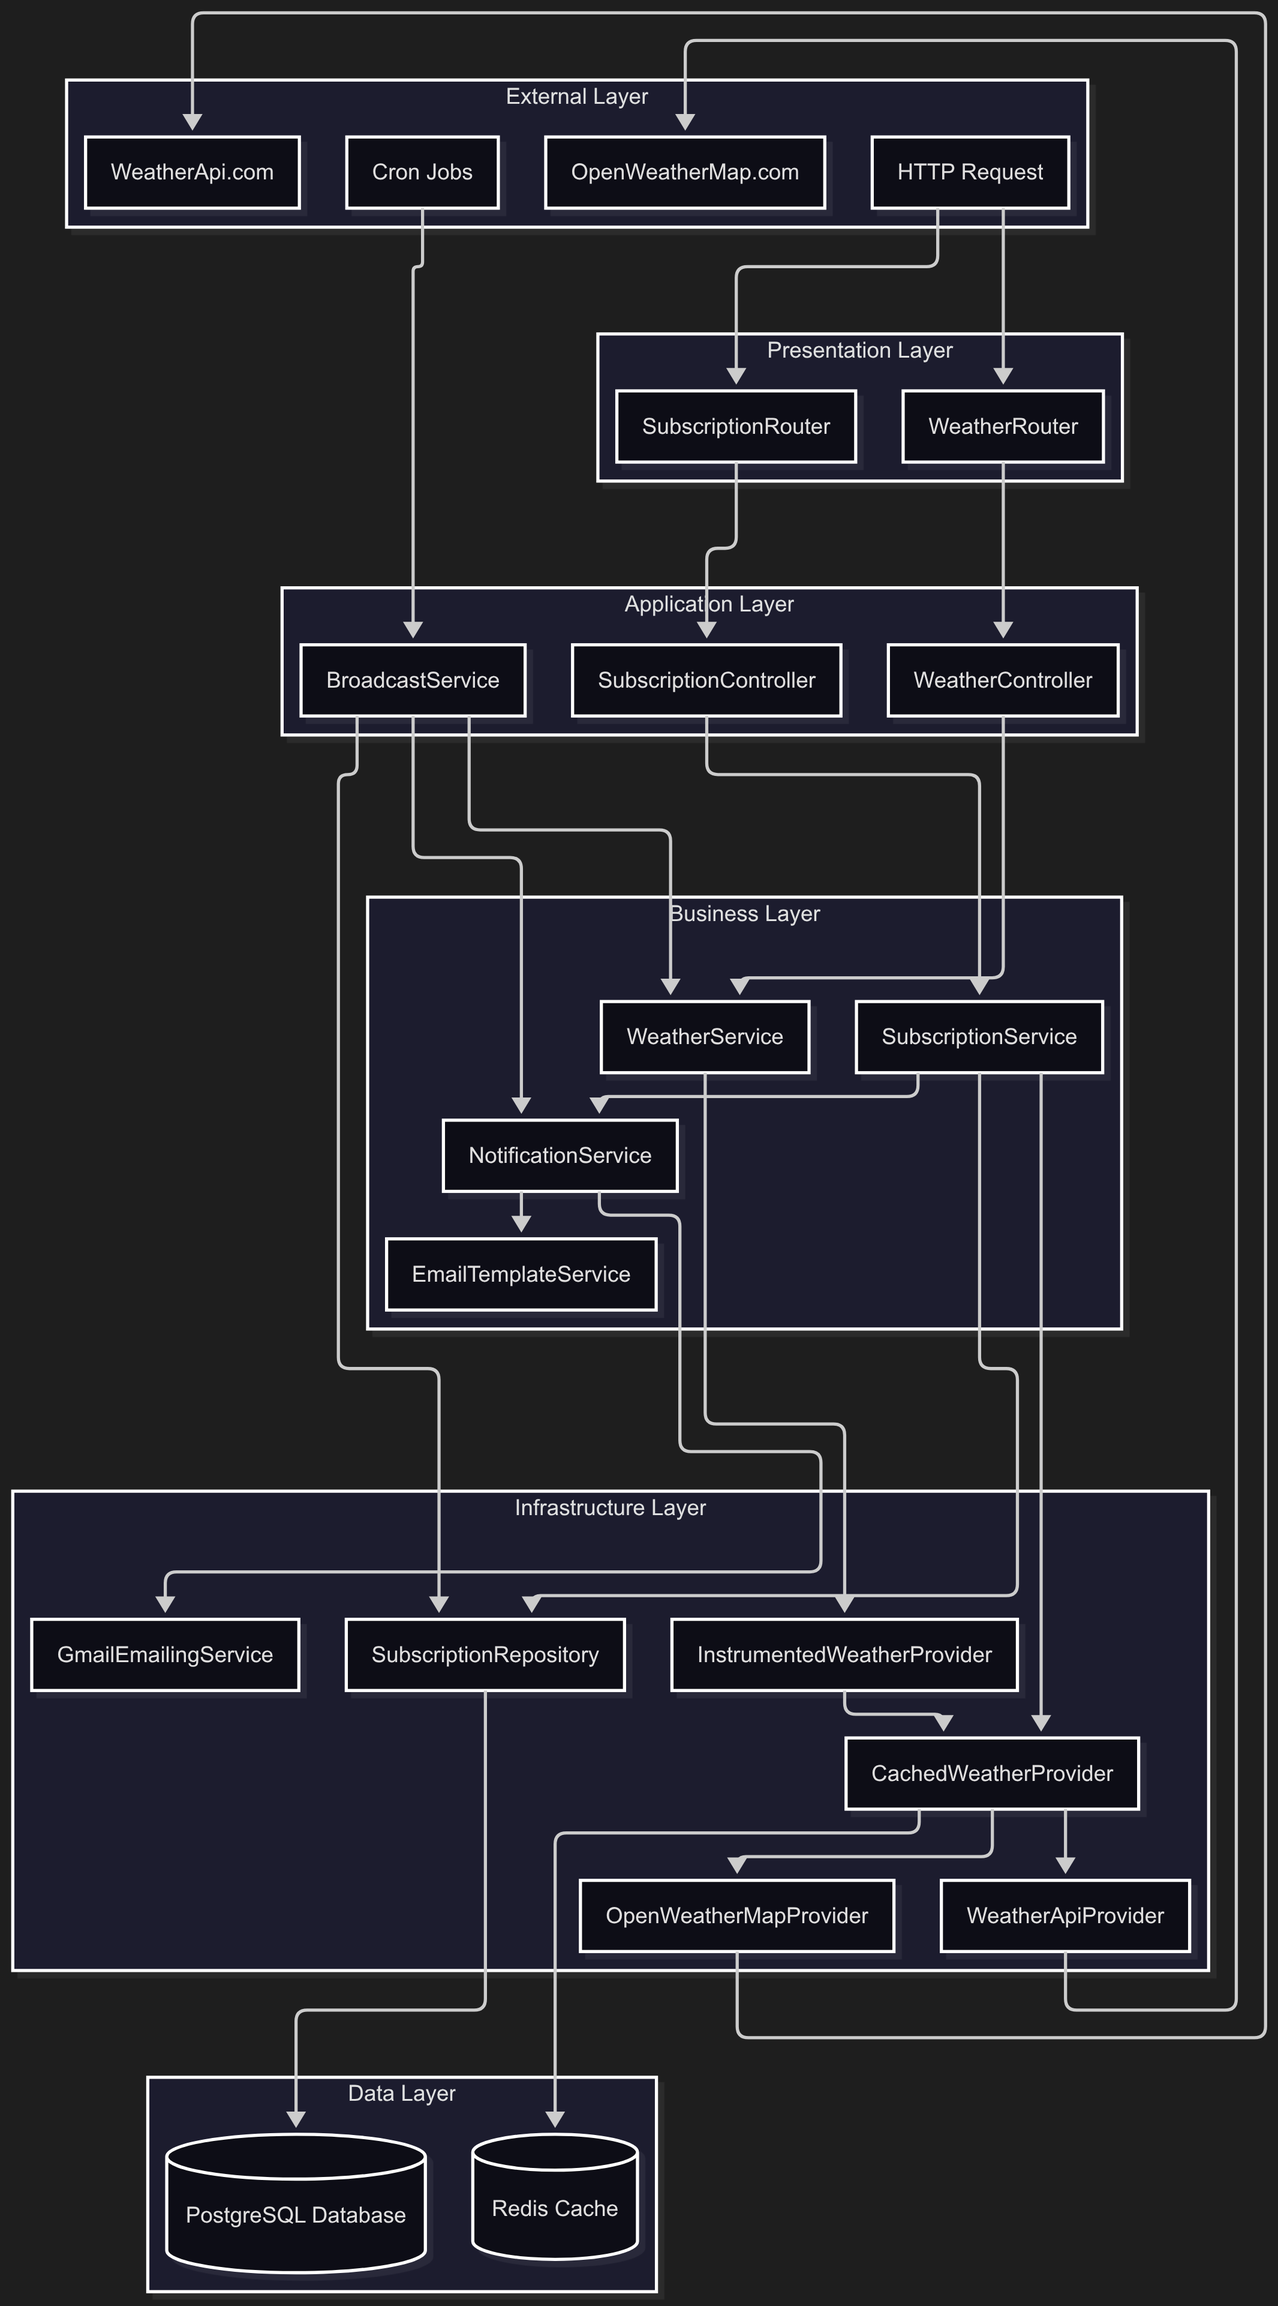
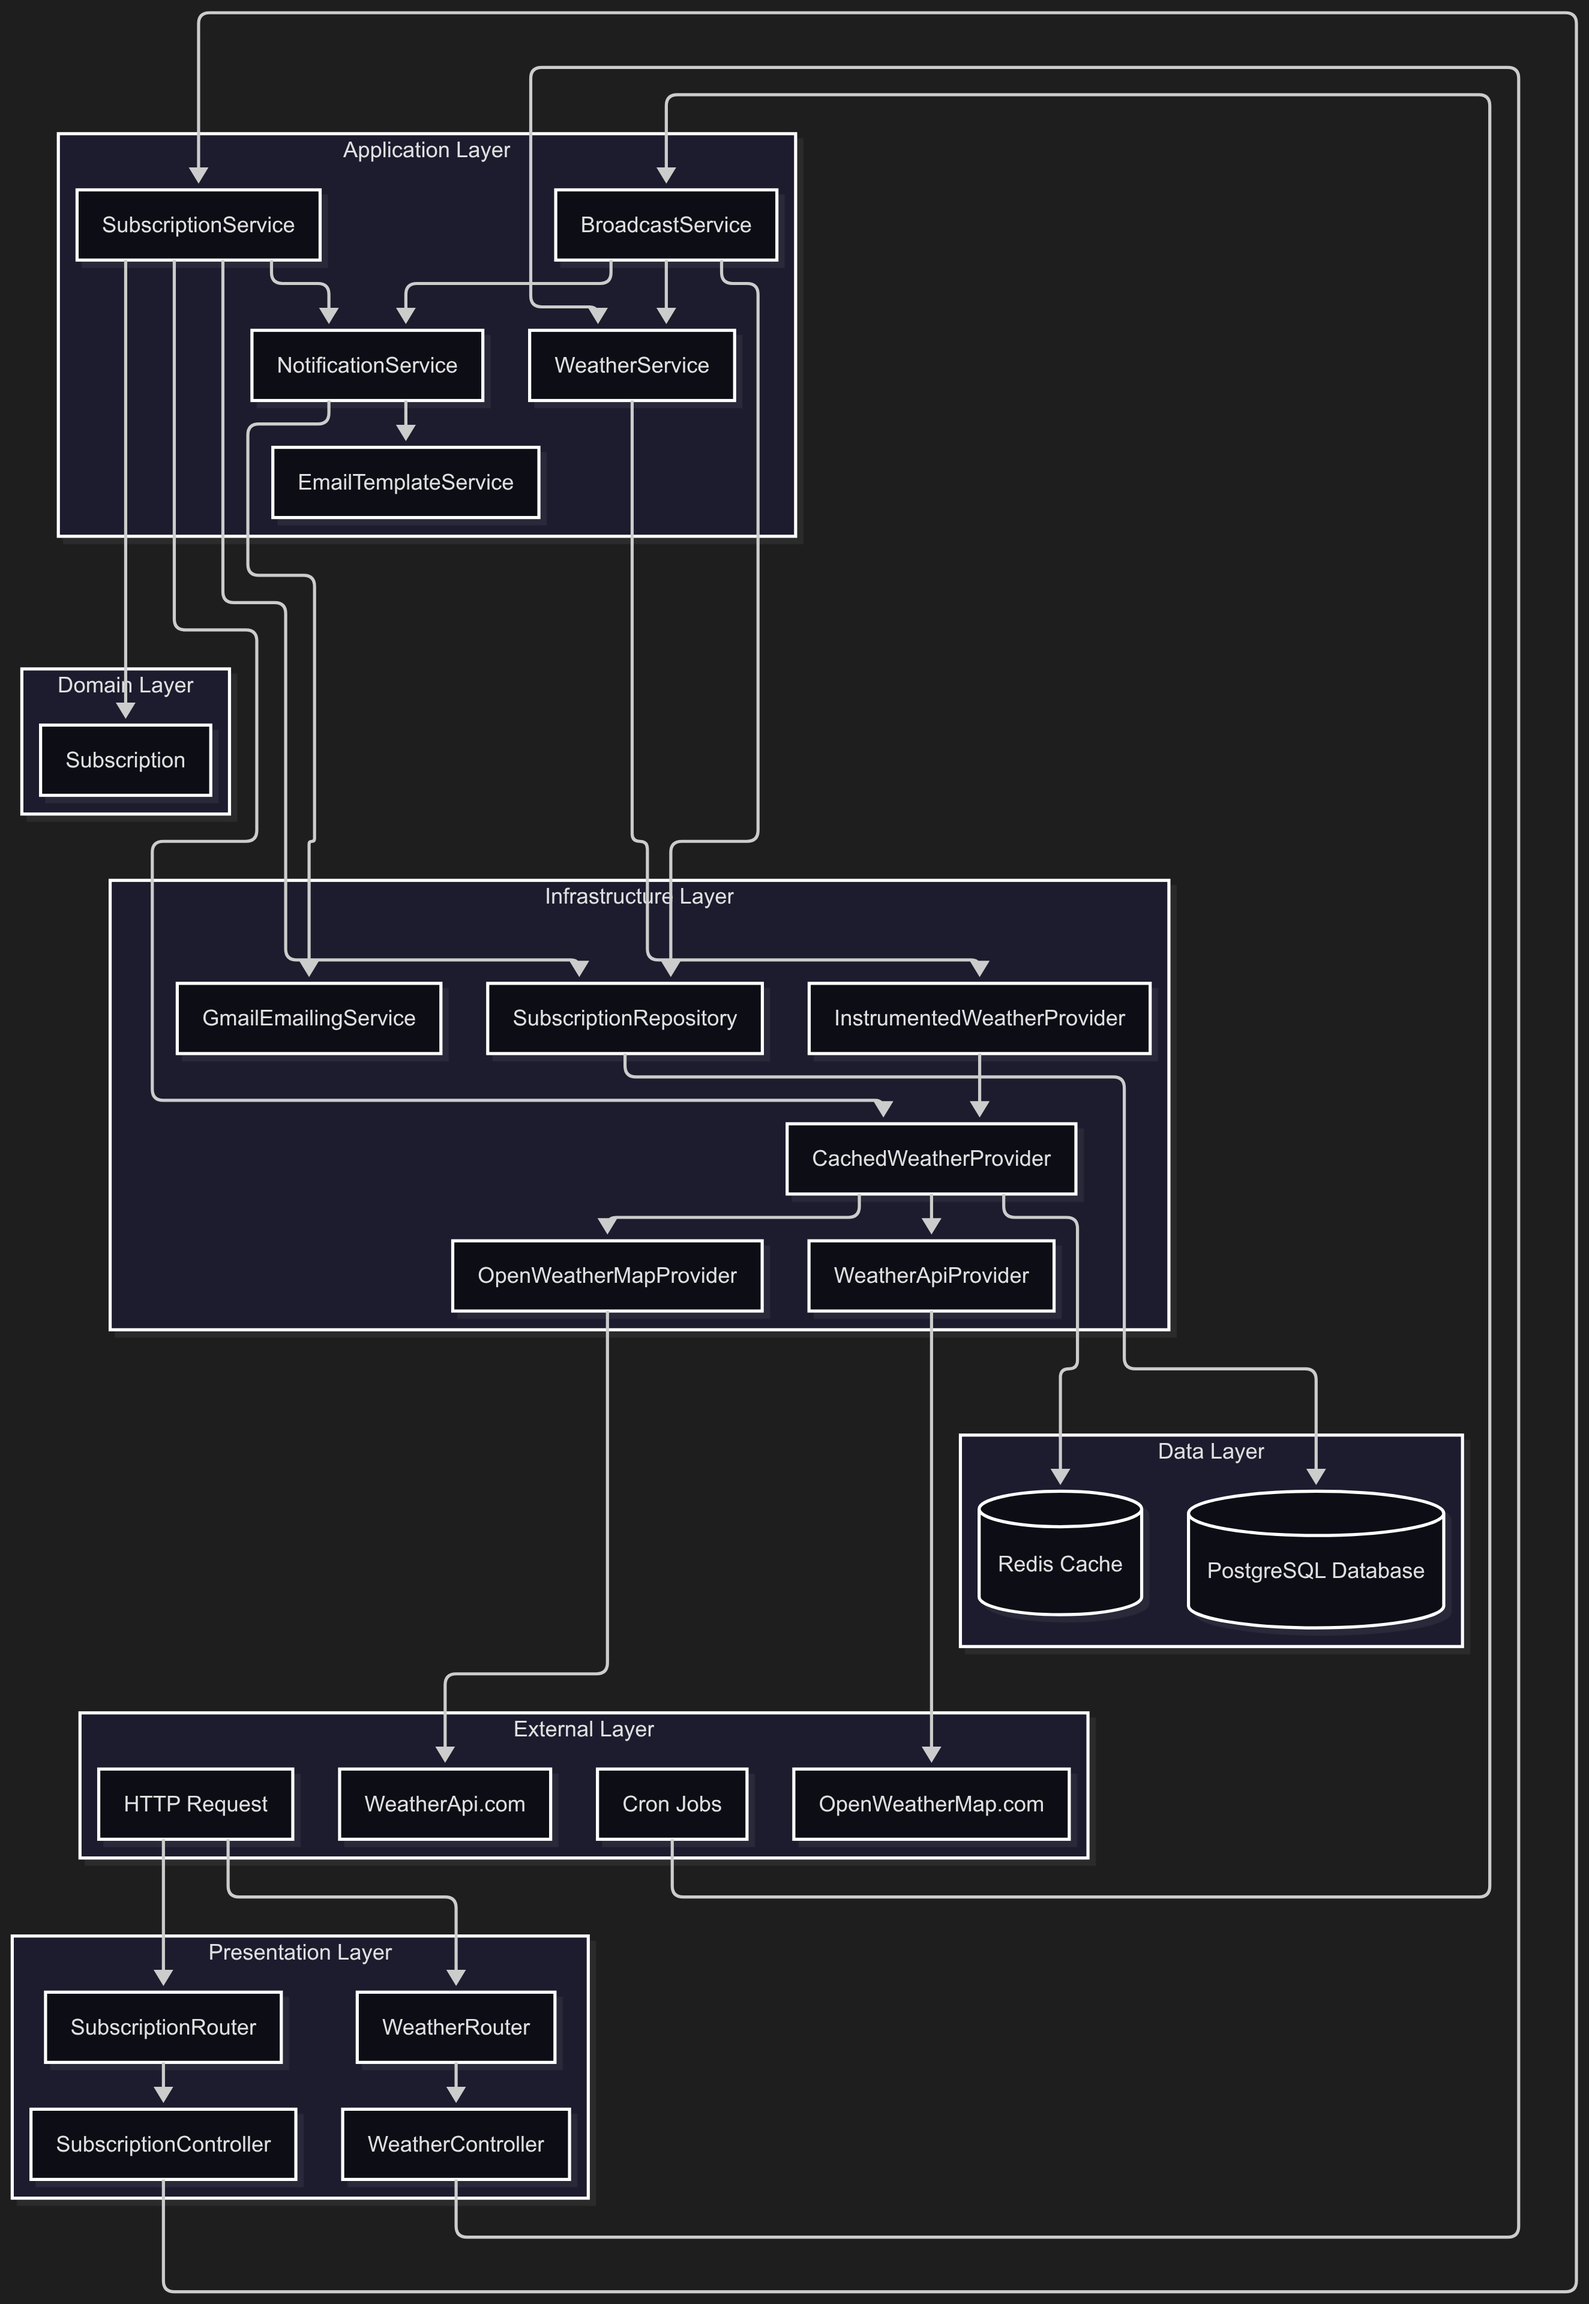
Refactor architecture documentation to clarify layer structure and relationships

Changed region(s): [[0.0, 0.0, 1.0, 1.0]]

diff --git a/backend/docs/Architecture.md b/backend/docs/Architecture.md
@@ -17,21 +17,22 @@ flowchart TD
     subgraph PL["Presentation Layer"]
         WeatherRouter[WeatherRouter]
         SubscriptionRouter[SubscriptionRouter]
+        WeatherController[WeatherController]
+        SubscriptionController[SubscriptionController]
     end
 
     %% Application Layer
     subgraph AL["Application Layer"]
-        WeatherController[WeatherController]
-        SubscriptionController[SubscriptionController]
         BroadcastService[BroadcastService]
-    end
-
-    %% Business Layer
-    subgraph BL["Business Layer"]
         WeatherService[WeatherService]
         SubscriptionService[SubscriptionService]
         NotificationService[NotificationService]
         EmailTemplateService[EmailTemplateService]
+    end
+
+    %% Business Layer
+    subgraph DL["Domain Layer"]
+        Subscription
     end
 
     %% Infrastructure Layer
@@ -45,7 +46,7 @@ flowchart TD
     end
 
     %% Data Layer
-    subgraph DL["Data Layer"]
+    subgraph DBL["Data Layer"]
         Redis[(Redis Cache)]
         PostgreSQL[(PostgreSQL Database)]
     end
@@ -72,6 +73,7 @@ flowchart TD
     SubscriptionService --> SubscriptionRepository
     SubscriptionService --> CachedWeatherProvider
     SubscriptionService --> NotificationService
+    SubscriptionService --> Subscription
     SubscriptionRepository --> PostgreSQL
 
     %% Broadcast flow
@@ -83,5 +85,5 @@ flowchart TD
     NotificationService --> EmailTemplateService
     NotificationService --> GmailEmailingService
 
-    EL ~~~ PL ~~~ AL ~~~ BL ~~~ IL ~~~ DL
+    PL ~~~ AL ~~~ DL ~~~ IL ~~~ DBL ~~~ EL
 ```
